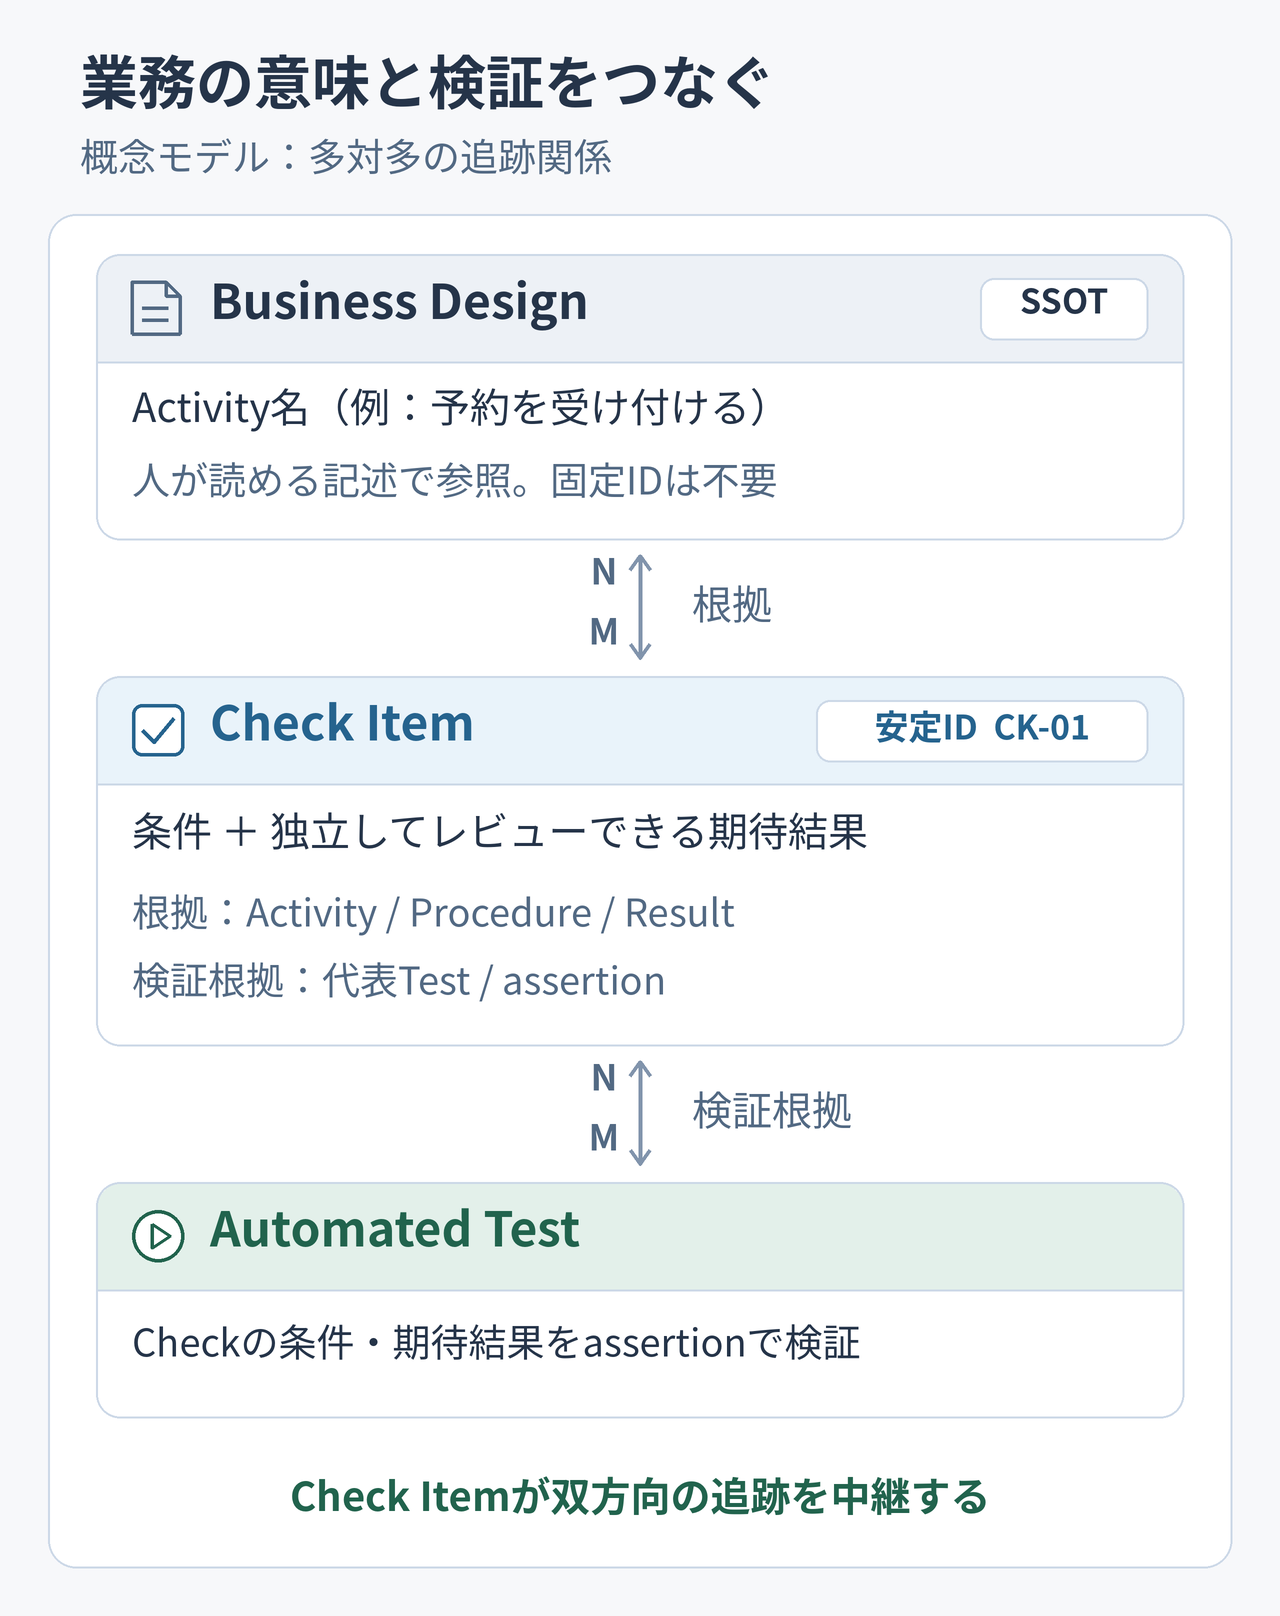
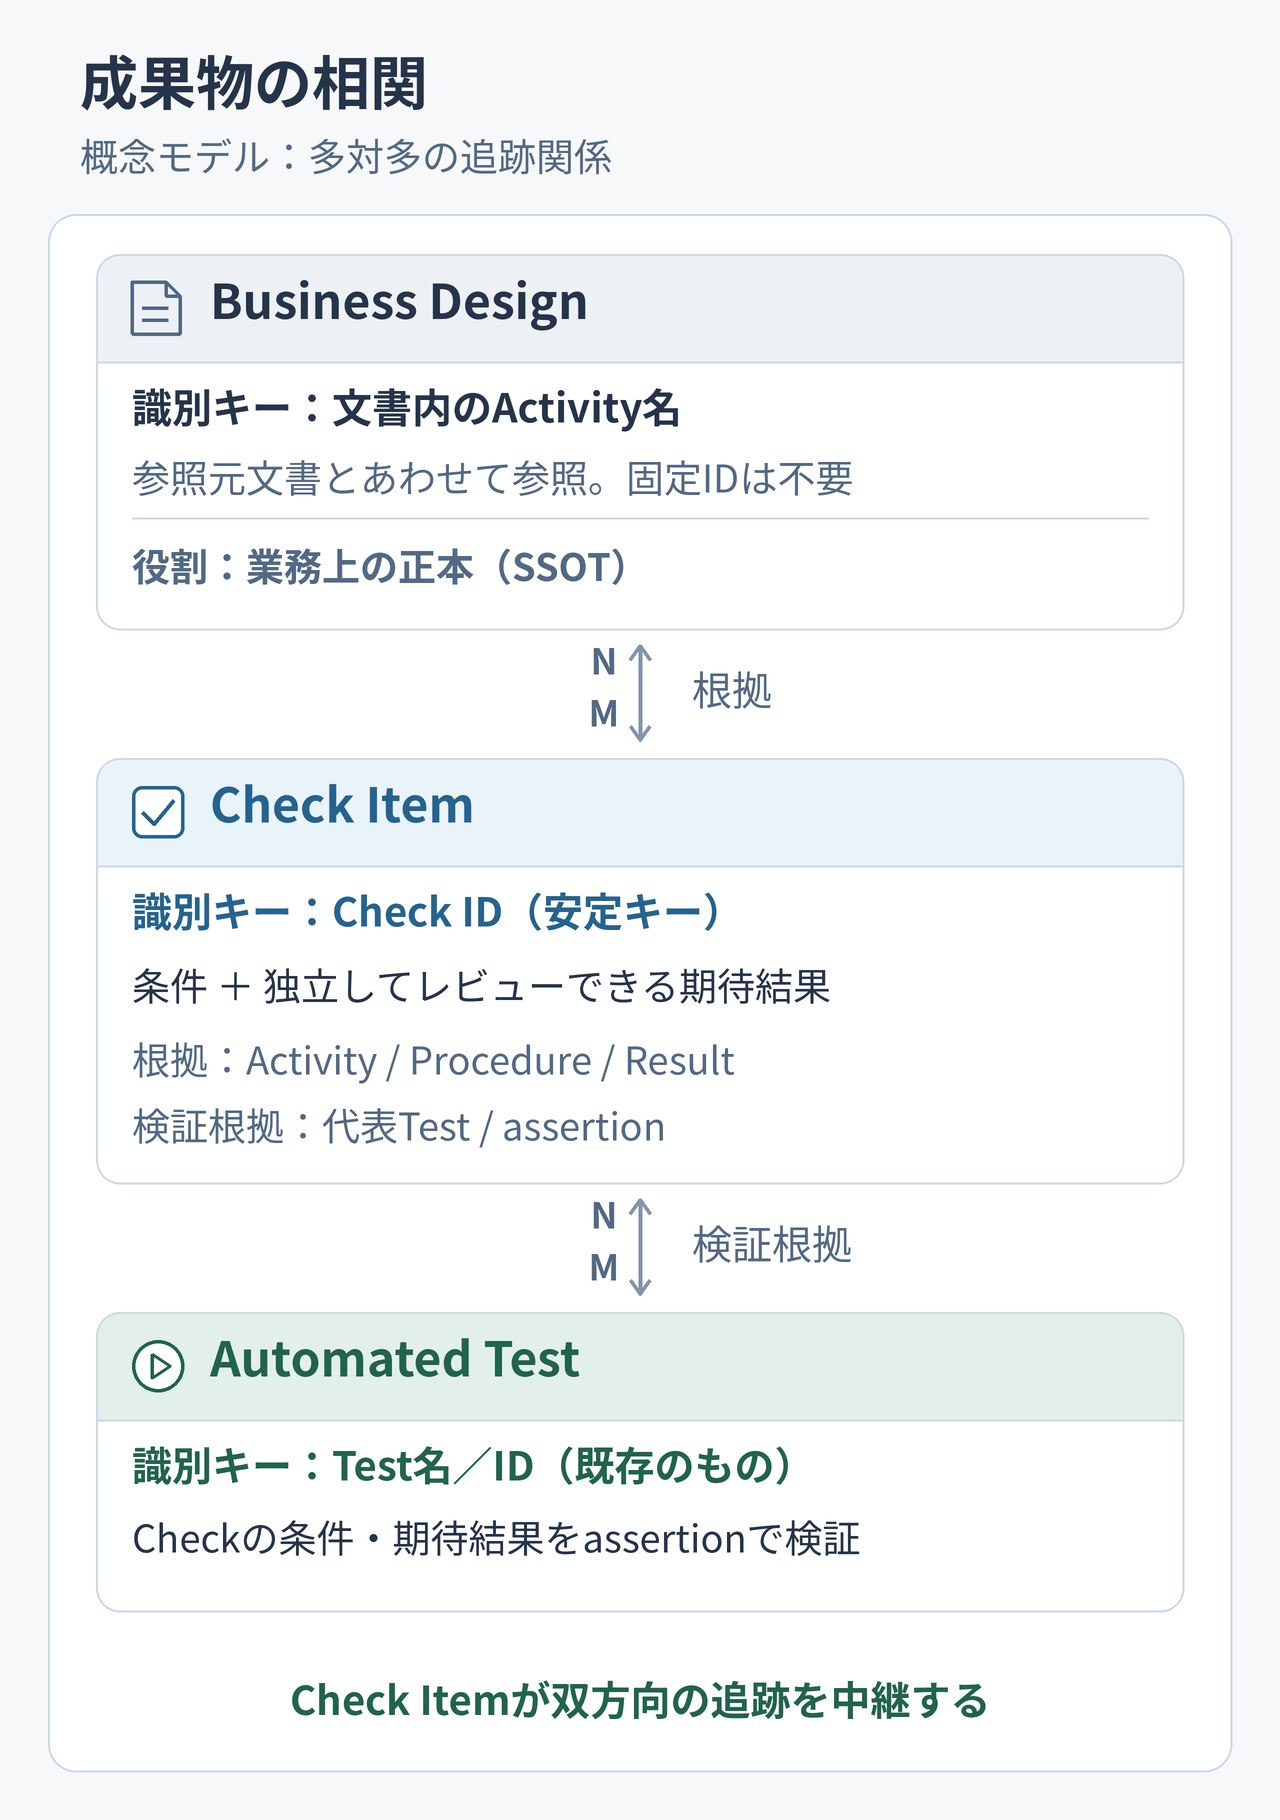
docs: distinguish artifact identity keys from SSOT role

diff --git a/docs/images/traceability/render.py b/docs/images/traceability/render.py
@@ -128,7 +128,39 @@ def relation(c, top, bottom, label):
     c.text(346, (top + bottom) / 2 - 11, label, 20, color="muted", max_width=230)
 
 
+def model_ja():
+    c = Canvas(910)
+    c.title("成果物の相関", "概念モデル：多対多の追跡関係")
+    c.rect(24, 107, 592, 779, radius=14)
+    entity(c, 127, 188, "Business Design", "document")
+    c.text(66, 194, "識別キー：文書内のActivity名", 20, True, max_width=507)
+    c.text(66, 230, "参照元文書とあわせて参照。固定IDは不要", 19,
+           color="muted", max_width=507)
+    c.line([(66, 259), (574, 259)], "line", 1)
+    c.text(66, 274, "役割：業務上の正本（SSOT）", 19, True,
+           color="muted", max_width=507)
+    relation(c, 323, 370, "根拠")
+    entity(c, 379, 213, "Check Item", "check", fill="blue", ink="blue_ink")
+    c.text(66, 446, "識別キー：Check ID（安定キー）", 20, True,
+           color="blue_ink", max_width=507)
+    c.text(66, 484, "条件 ＋ 独立してレビューできる期待結果", 19, max_width=507)
+    c.text(66, 521, "根拠：Activity / Procedure / Result", 19,
+           color="muted", max_width=507)
+    c.text(66, 554, "検証根拠：代表Test / assertion", 19,
+           color="muted", max_width=507)
+    relation(c, 600, 647, "検証根拠")
+    entity(c, 656, 150, "Automated Test", "play", fill="green", ink="green_ink")
+    c.text(66, 723, "識別キー：Test名／ID（既存のもの）", 20, True,
+           color="green_ink", max_width=507)
+    c.text(66, 760, "Checkの条件・期待結果をassertionで検証", 19, max_width=507)
+    c.text(320, 840, "Check Itemが双方向の追跡を中継する", 20, True,
+           "green_ink", max_width=540, center=True)
+    return c
+
+
 def model(lang):
+    if lang == "ja":
+        return model_ja()
     ja = lang == "ja"
     c = Canvas(808)
     c.title("業務の意味と検証をつなぐ" if ja else "Trace meaning in both directions",

diff --git a/README.ja.md b/README.ja.md
@@ -90,12 +90,12 @@ Alderで作成し、実装へ引き渡す主な成果物は、業務設計書と
 
 ### 成果物の相関
 
-業務設計書とTestは、チェック項目の安定したID（例：`CK-01`）を介して結び付きます。各IDには、次の二つの参照を保持します。
+業務設計書とTestは、チェック項目の安定したIDを介して結び付きます。各IDには、次の二つの参照を保持します。
 
-- **業務設計書への参照**：チェック項目の条件・期待結果の根拠となる箇所を示します。Activity名などの人間可読な識別子を使い、必要ならProcedure / Resultまでたどれるようにします。Activityに機械的な固定IDは要求しません。
+- **業務設計書への参照**：チェック項目の条件・期待結果の根拠となる箇所を示します。参照元文書とActivity名などの人間可読な識別子を使い、必要ならProcedure / Resultまでたどれるようにします。Activityに機械的な固定IDは要求しません。
 - **Testへの参照**：その条件・期待結果を検証する代表Testとassertionを示します。
 
-<a href="docs/images/traceability-model.ja.png"><img src="docs/images/traceability-model.ja.png" alt="追跡関係の概念モデル。業務設計書の業務とチェック項目、チェック項目と自動Testはそれぞれ多対多（N:M）でつながる。チェック項目の安定IDから業務上の根拠とTestのassertionをたどり、Testから業務へも逆引きできる。実DBスキーマではない。" width="640"></a>
+<a href="docs/images/traceability-model.ja.png"><img src="docs/images/traceability-model.ja.png" alt="成果物の相関を示す概念モデル。識別キーを同じ位置に示し、Business Designの正本としての役割（SSOT）は別の欄に示す。Activity名は参照元文書とあわせて参照し、Check IDは安定キー、Testは既存の名前やIDを使う。業務設計書の業務とチェック項目、チェック項目と自動Testはそれぞれ多対多（N:M）でつながる。チェック項目の安定IDから業務上の根拠とTestのassertionをたどり、Testから業務へも逆引きできる。実DBスキーマではない。" width="640"></a>
 
 業務設計書とチェック項目、チェック項目とTestは、それぞれ多対多（N:M）で結び付きます。一つのチェック項目が複数の業務を根拠にしたり、複数のTestで検証されたりすることがあります。逆に、一つの業務やTestが複数のチェック項目に関係することもあります。
 
